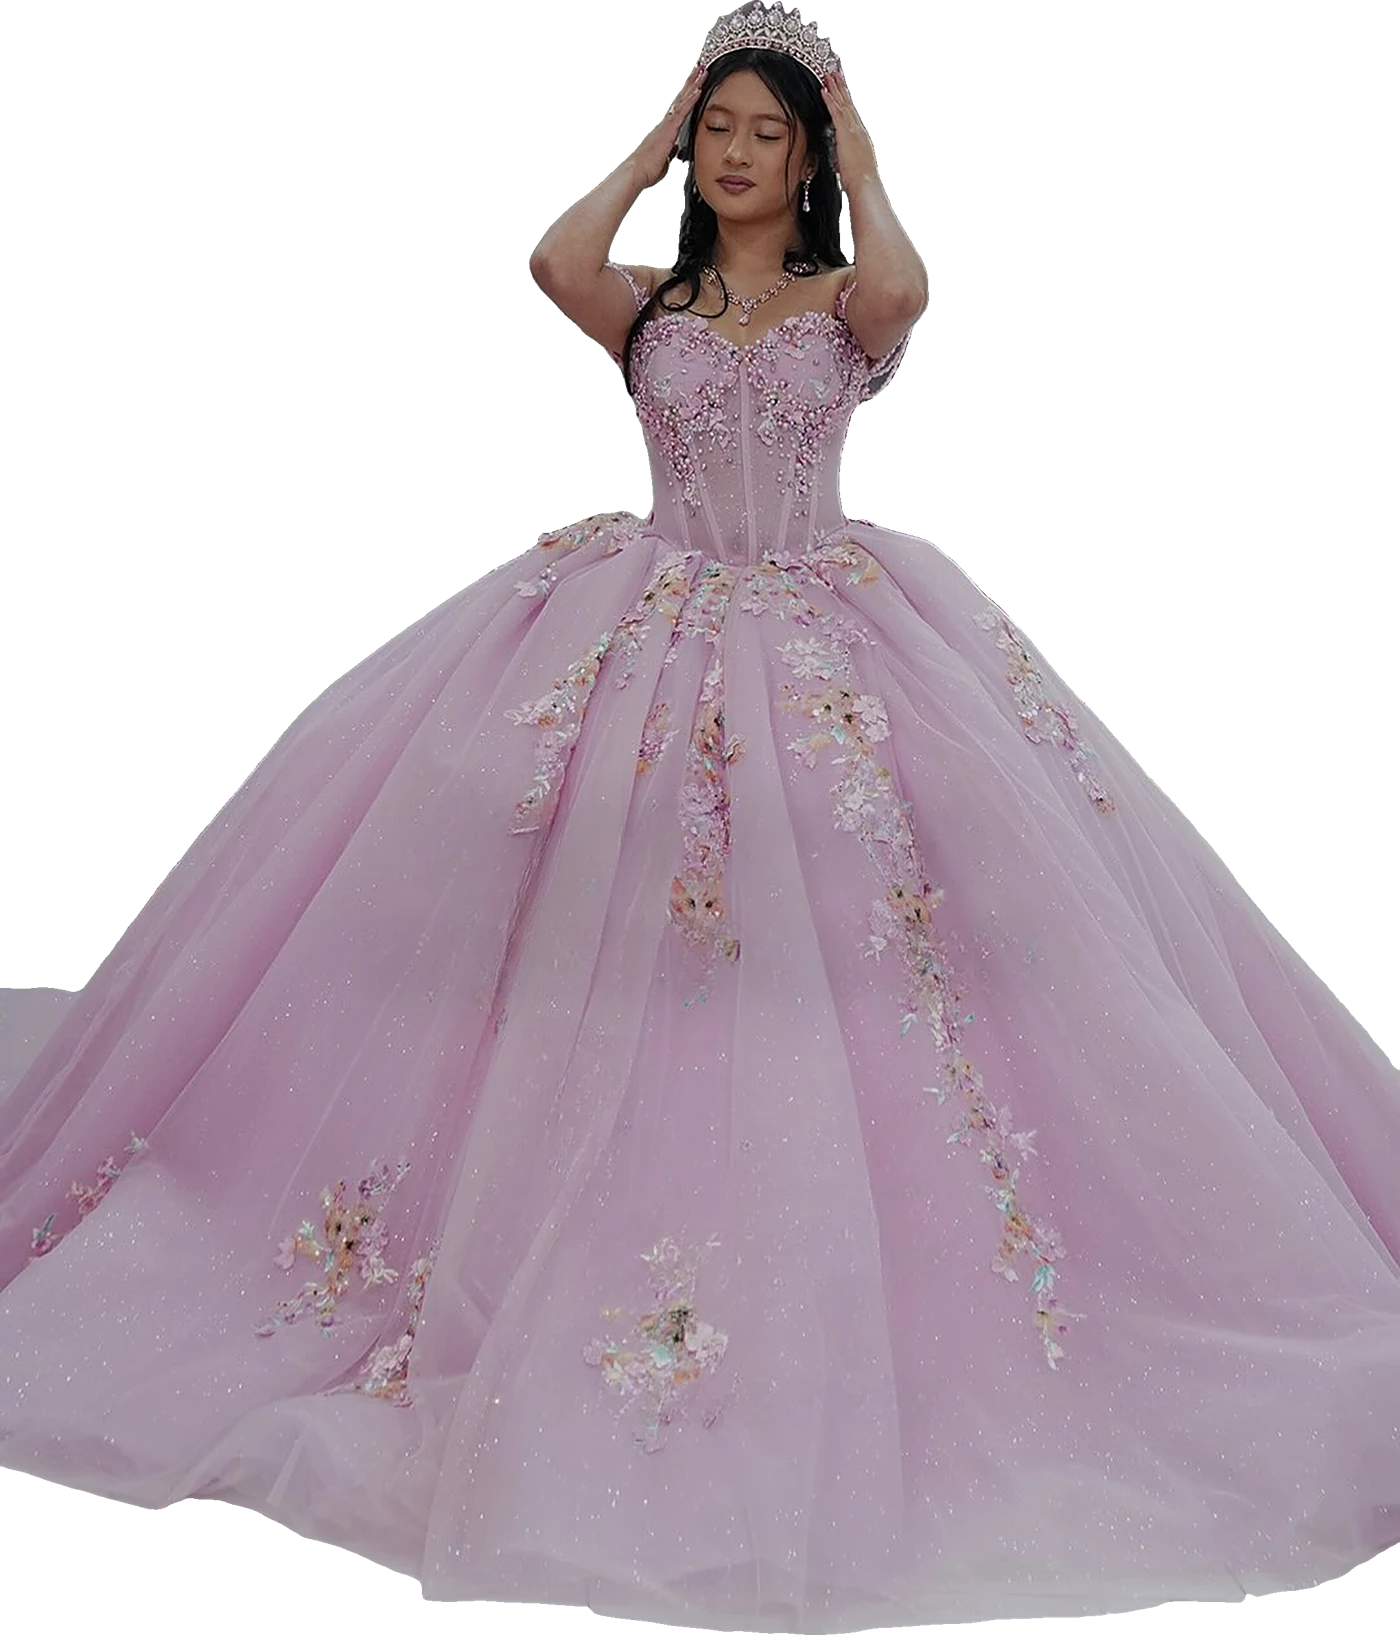
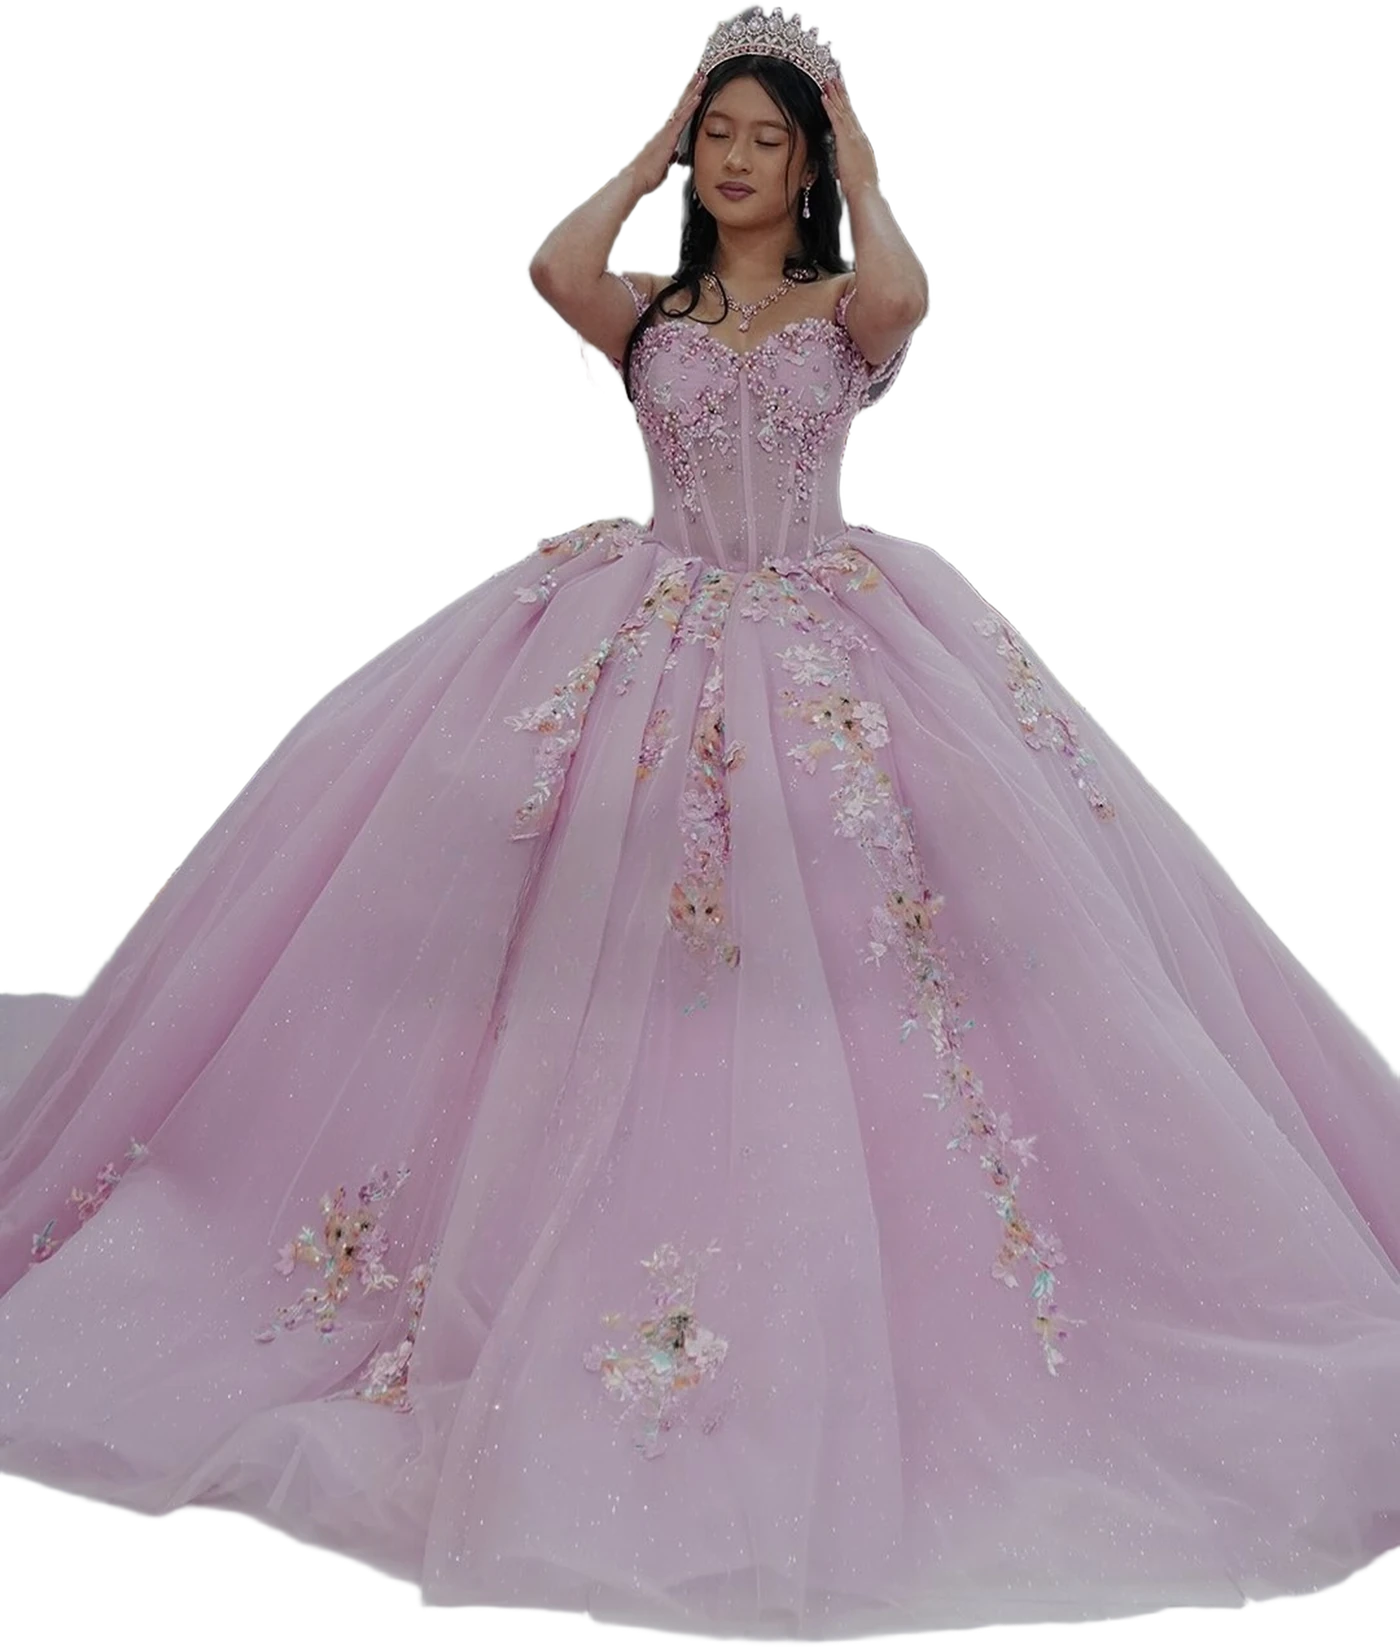
Recorte fino del hero, sin recursos repetidos y cierre de la versión 1

diff --git a/index.html b/index.html
@@ -99,7 +99,6 @@
       <div class="hero-sky"></div>
       <div class="cloud cloud-l" data-par="-50"><img class="drift-a" src="assets/img/nube-rosa-1.webp" alt="" width="843" height="685"></div>
       <div class="cloud cloud-r" data-par="-80"><img class="drift-b" src="assets/img/nube-rosa-2.webp" alt="" width="1000" height="734"></div>
-      <div class="dove-slot dove-hero" style="--s:.42;--dur:22s;--y:2svh"></div>
 
       <div class="hero-stack">
         <div class="hero-title" id="heroTitle">
@@ -172,8 +171,6 @@
       <p class="swipe-hint">desliza las fotos</p>
     </section>
 
-    <div class="cloud-sep cloud-sep-date" aria-hidden="true"><img src="assets/img/nube-da-2.webp" alt="" width="1600" height="642"></div>
-
     <!-- ============ FECHA + CUENTA REGRESIVA ============ -->
     <section class="sec night date" id="fecha">
       <video class="date-video" id="dateVideo" muted loop playsinline preload="metadata" poster="assets/img/flores-poster.webp" aria-hidden="true">
@@ -207,7 +204,6 @@
 
     <!-- ============ PADRES ============ -->
     <section class="sec parents" id="familia">
-      <img class="crown-top reveal" src="assets/img/corona-oro.webp" alt="" width="900" height="591">
       <p class="lead reveal">Con la bendición de Dios y el amor de</p>
       <h2 class="title split">Mis papás</h2>
       <div class="names">
@@ -232,14 +228,12 @@
             <source src="assets/video/vals-bosque.mp4" type="video/mp4">
           </video>
         </div>
-        <img class="dream-border" src="assets/img/marco-oval.webp" alt="" width="900" height="1163">
       </div>
       <p class="lead reveal">“Te conozco, bailé contigo una vez en un sueño…”</p>
     </section>
 
     <!-- ============ ITINERARIO ============ -->
     <section class="sec itin" id="itinerario">
-      <img class="corner corner-tr" src="assets/img/rama-b.webp" alt="" width="727" height="800">
       <h2 class="title split">El hechizo empieza puntual</h2>
 
       <div class="punctual reveal">
@@ -297,10 +291,6 @@
     <section class="place" id="recepcion">
       <div class="place-img"><img id="placeImg" src="assets/img/cielo-rosa.webp" alt="" width="1600" height="905"></div>
       <img class="place-castle" src="assets/img/castillo.webp" alt="" width="1000" height="1027">
-      <img class="place-cloud place-cloud-l drift-a" src="assets/img/nube-rosa-1.webp" alt="" width="843" height="685">
-      <img class="place-cloud place-cloud-r drift-b" src="assets/img/nube-rosa-2.webp" alt="" width="1000" height="734">
-      <img class="place-bloom place-bloom-l" src="assets/img/rama-a.webp" alt="" width="800" height="800">
-      <img class="place-bloom place-bloom-r" src="assets/img/rama-b.webp" alt="" width="727" height="800">
       <div class="petals" id="petals"></div>
       <div class="place-card" id="placeCard">
         <h2 class="title">Finca Don Marcos</h2>
@@ -348,7 +338,6 @@
         <svg viewBox="0 0 24 24" aria-hidden="true"><path fill="currentColor" d="M12 2a10 10 0 0 0-8.6 15.1L2 22l5-1.3A10 10 0 1 0 12 2zm0 18.2c-1.5 0-3-.4-4.3-1.2l-.3-.2-3 .8.8-2.9-.2-.3A8.2 8.2 0 1 1 12 20.2zm4.5-6.1c-.2-.1-1.5-.7-1.7-.8-.2-.1-.4-.1-.6.1l-.8 1c-.1.2-.3.2-.5.1a6.7 6.7 0 0 1-3.3-2.9c-.3-.4.2-.4.7-1.3.1-.2 0-.3 0-.4l-.8-1.9c-.2-.5-.4-.4-.6-.4h-.5a1 1 0 0 0-.7.3 3 3 0 0 0-.9 2.2 5.2 5.2 0 0 0 1.1 2.7 11.8 11.8 0 0 0 4.5 4c1.7.7 2.3.8 3.2.6.5-.1 1.5-.6 1.7-1.2.2-.6.2-1.1.2-1.2-.1-.1-.3-.2-.5-.3z"/></svg>
         Confirmar por WhatsApp
       </a>
-      <img class="rsvp-wand" src="assets/img/varita.webp" alt="" width="332" height="815">
     </section>
 
     <!-- ============ ÁLBUM DE RECUERDOS ============ -->
@@ -367,11 +356,10 @@
     <!-- ============ CIERRE ============ -->
     <section class="end" id="fin">
       <div class="stars" data-count="40"></div>
-      <img class="end-cloud end-cloud-l drift-a" src="assets/img/nube-rosa-1.webp" alt="" width="843" height="685">
-      <img class="end-cloud end-cloud-r drift-b" src="assets/img/nube-rosa-2.webp" alt="" width="1000" height="734">
-      <div class="dove-slot dove-end" style="--s:.6;--dur:17s;--y:30%"></div>
+      <img class="end-cloud end-cloud-l drift-a" src="assets/img/cloudA.webp" alt="" width="1200" height="679">
+      <img class="end-cloud end-cloud-r drift-b" src="assets/img/cloudB.webp" alt="" width="1200" height="679">
       <div class="end-inner">
-        <img class="end-castle reveal" src="assets/img/castillo.webp" alt="Castillo de cuento sobre un libro abierto" width="1000" height="1027">
+        <img class="end-once reveal" src="assets/img/once-upon-oro.webp" alt="Once upon a time" width="1296" height="1400">
         <p class="end-text split">…y este cuento continúa contigo.</p>
         <p class="end-sign reveal">Te espero · Luisa María</p>
       </div>

diff --git a/css/styles.css b/css/styles.css
@@ -606,8 +606,8 @@ body.is-locked #app { transform: scale(.9); filter: blur(6px); border-radius: 28
 
 /* Once upon a dream: baile en el bosque dentro del marco dorado */
 .dream { text-align: center; background-color: var(--blush); }
-.dream-frame { position: relative; width: min(78vw, 340px); aspect-ratio: 900 / 1163; margin: 6px auto 18px; }
-.dream-video { position: absolute; left: 16.7%; top: 16.2%; width: 66.3%; height: 69.5%; border-radius: 50%; overflow: hidden; background: #cfe0dc; }
+.dream-frame { position: relative; width: min(74vw, 320px); aspect-ratio: 4 / 5; margin: 6px auto 18px; }
+.dream-video { position: absolute; inset: 6%; border-radius: 50%; overflow: hidden; background: #cfe0dc; box-shadow: 0 0 0 6px #fff, 0 0 0 9px var(--gold), 0 0 0 10px rgba(201,162,75,.4), 0 22px 44px rgba(120,60,80,.28); }
 .dream-video video { width: 100%; height: 100%; object-fit: cover; object-position: 50% 30%; }
 .dream-border { position: absolute; inset: 0; width: 100%; height: 100%; z-index: 2; pointer-events: none; filter: drop-shadow(0 18px 30px rgba(120, 60, 80, .25)); }
 .star-deco { position: absolute !important; z-index: 1 !important; width: 46px; pointer-events: none; animation: twinkle 3.4s ease-in-out infinite; }
@@ -664,3 +664,6 @@ body.is-locked #app { transform: scale(.9); filter: blur(6px); border-radius: 28
   .dove-slot, .dove-rig, .dw-l, .dw-r, .star-deco, .hint-wand { animation: none !important; }
   .dove-slot { transform: translateX(60vw); }
 }
+
+.end-once { width: min(62vw, 280px); margin: 0 auto 20px; filter: drop-shadow(0 4px 18px rgba(255, 230, 170, .5)); }
+.parents { padding-top: 70px; }

diff --git a/js/main.js b/js/main.js
@@ -255,7 +255,7 @@
 
     // Nubes de transición: se deslizan suave al pasar (parallax)
     $$('.cloud-sep img').forEach(img => gsap.fromTo(img, { yPercent: -48 }, { yPercent: -72, ease: 'none', scrollTrigger: { trigger: img.parentElement, start: 'top bottom', end: 'bottom top', scrub: true } }));
-    gsap.fromTo('.place-castle', { yPercent: 14 }, { yPercent: 0, ease: 'none', scrollTrigger: { trigger: '#recepcion', start: 'top bottom', end: 'bottom bottom', scrub: true } });
+    if ($('.place-castle')) gsap.fromTo('.place-castle', { yPercent: 14 }, { yPercent: 0, ease: 'none', scrollTrigger: { trigger: '#recepcion', start: 'top bottom', end: 'bottom bottom', scrub: true } });
 
     // Cierre: el árbol crece
     gsap.fromTo('#endTree', { yPercent: 45 }, { yPercent: 0, ease: 'none', scrollTrigger: { trigger: '#fin', start: 'top bottom', end: 'bottom bottom', scrub: true } });

diff --git a/tools/recorte_fino.py b/tools/recorte_fino.py
@@ -1,0 +1,50 @@
+"""Recorte fino del hero: BiRefNet + limpieza de los huecos de pared entre brazos y cabeza.
+
+Uso: python tools/recorte_fino.py <foto_sin_texto.jpg>
+Salida: assets/img/luisa-xv.webp y assets/img/og.jpg
+"""
+import sys, pathlib
+import numpy as np, cv2
+from PIL import Image
+from rembg import remove, new_session
+
+ROOT = pathlib.Path(__file__).resolve().parent.parent
+sys.path.insert(0, str(ROOT / "tools"))
+from hero_photo import og  # noqa: E402
+
+src = Image.open(sys.argv[1]).convert("RGB")
+k = 2
+im = src.resize((src.width * k, src.height * k), Image.LANCZOS)
+W, H = im.size
+alpha = np.asarray(remove(im, session=new_session("birefnet-general"), only_mask=True)).astype(np.float32) / 255
+
+# Zona de los huecos: entre los brazos levantados y la cabeza (coordenadas de la foto 1080x1350)
+zx0, zx1, zy0, zy1 = 470 * k, 730 * k, 112 * k, 300 * k
+a = np.asarray(im).astype(np.uint8)
+hsv = cv2.cvtColor(a, cv2.COLOR_RGB2HSV).astype(np.float32)
+sat, val = hsv[..., 1] / 255, hsv[..., 2] / 255
+# pared/arco: gris (poca saturación) y no tan oscuro como el pelo; la piel es más saturada
+hue = hsv[..., 0]
+skin = ((hue >= 0) & (hue <= 22) & (sat > .09)) | (hue >= 170)
+wall = ((sat < .15) & (val > .32) & ~skin).astype(np.uint8)
+zone = np.zeros_like(wall); zone[zy0:zy1, zx0:zx1] = 1
+wall = wall * zone
+wall = cv2.morphologyEx(wall, cv2.MORPH_OPEN, np.ones((5, 5), np.uint8))
+# solo manchas grandes (evita borrar brillos de piel o aretes)
+n, lab, st, _ = cv2.connectedComponentsWithStats(wall)
+clean = np.zeros_like(wall)
+for i in range(1, n):
+    if st[i, 4] > 900:
+        clean[lab == i] = 1
+clean = cv2.dilate(clean, np.ones((5, 5), np.uint8))
+soft = cv2.GaussianBlur(clean.astype(np.float32), (0, 0), 2.2)
+alpha = alpha * (1 - soft)
+print("pixeles de pared quitados:", int(clean.sum()))
+
+out = im.convert("RGBA")
+out.putalpha(Image.fromarray((np.clip(alpha, 0, 1) * 255).astype(np.uint8)))
+out = out.crop(out.getbbox())
+out.thumbnail((1400, 1800))
+out.save(ROOT / "assets" / "img" / "luisa-xv.webp", "WEBP", quality=90, method=6)
+og(out)
+print("ok", out.size)
